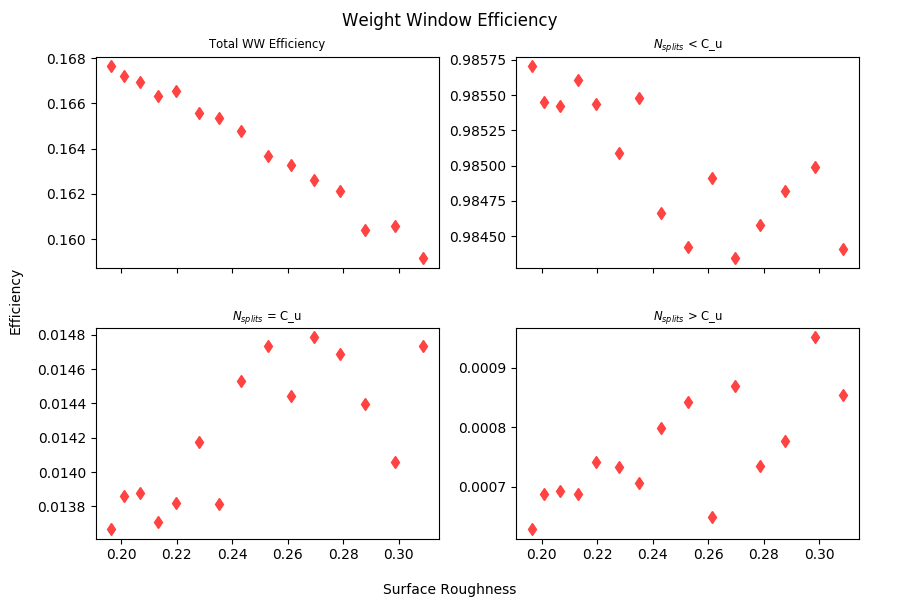
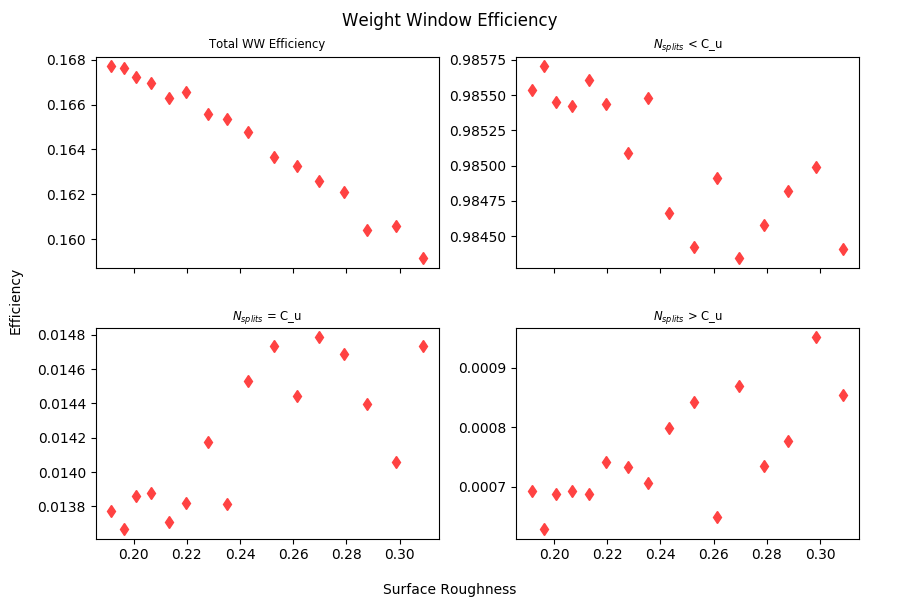
include default r=8 on all refinement plots

diff --git a/performance-analysis/analysis/plot_tally_data.py b/performance-analysis/analysis/plot_tally_data.py
@@ -262,13 +262,11 @@ def plot_fom(df_output, df_measure, refinement):
         xlabel = 'Surface Roughness'
 
     # get the output data for total tally
-    df_tally = df_output.loc[~df_output[output_key].isnull()][
+    df_tally = df_output.loc[df_output[output_key].notnull()][
         ['fom', output_key, 'cpu time', 'error total', 'vov']]
 
     df_tally['fom error'] = (2. * df_tally['vov']**0.5) / \
         (df_tally['error total']**2 * df_tally['cpu time'])
-
-    print(df_tally)
 
     # get measurement data for total only
     df_refine = df_measure.loc[df_measure['group'] == 'total'][
@@ -393,6 +391,10 @@ if __name__ == '__main__':
     df_output = pd.concat((
         pd.read_csv(f, header=0, index_col=0) for f in all_data_files),
         sort=False, ignore_index=True)
+
+    # update the perturbation/decimation info on the r=8 ratio entry
+    df_output.loc[df_output['ratio'] == 8, 'perturbation'] = 0.0
+    df_output.loc[df_output['ratio'] == 8, 'decimation'] = 0.0
 
     # get coarseness data
     fdeci = 'csv/wwig_coarseness_measurements.csv'
